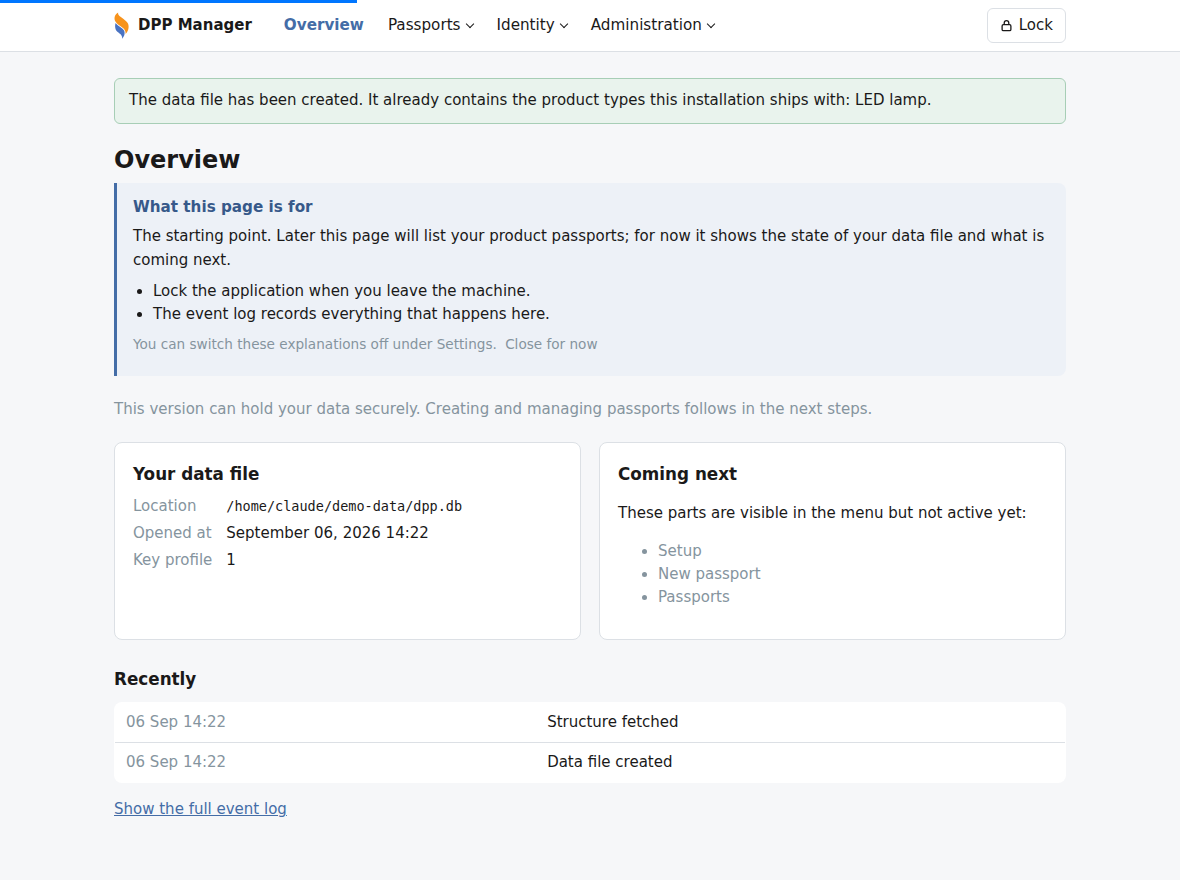
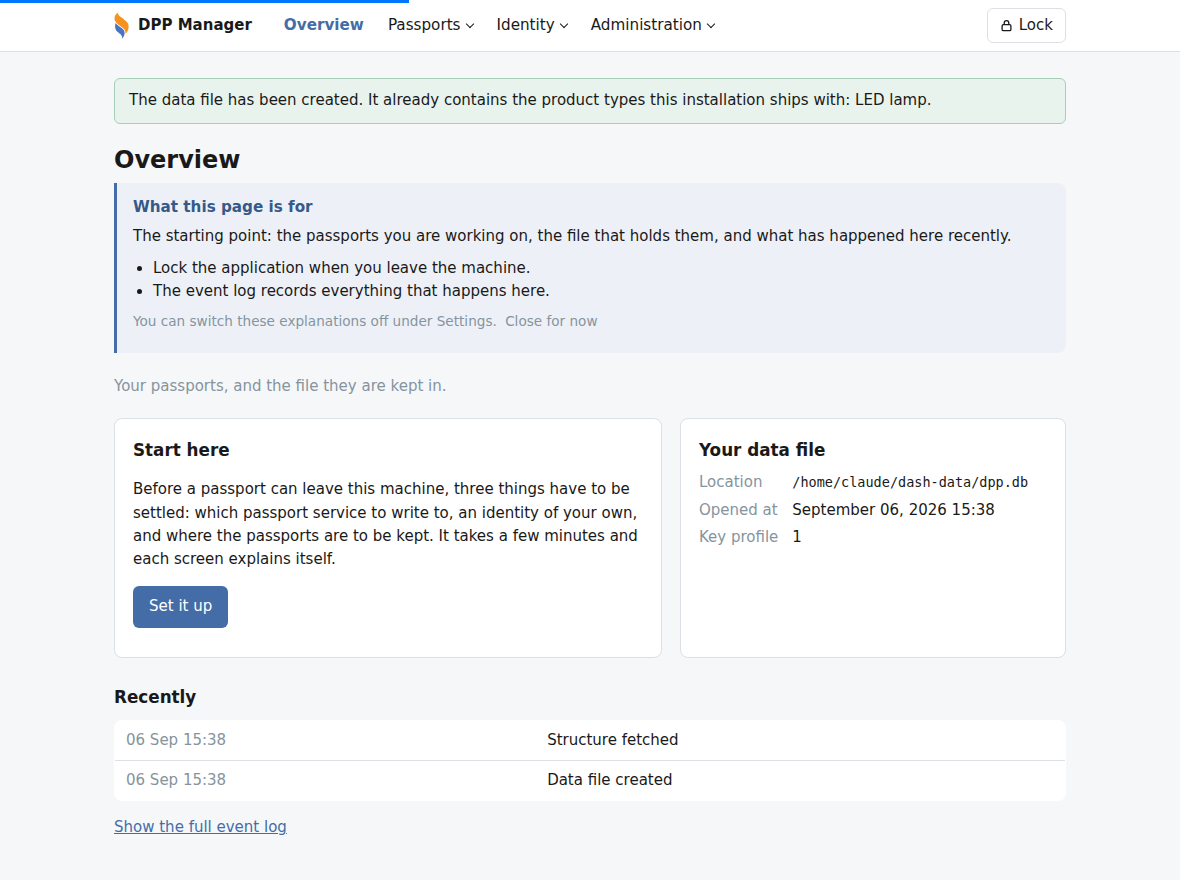
Release 2026-09-06

diff --git a/docs/DPP-Manager-Demo.md b/docs/DPP-Manager-Demo.md
@@ -105,6 +105,10 @@ are installed at that moment, which is why the button takes a second. From here
 on it works with the network unplugged, up to the point where something has to
 leave the computer.
 
+The overview is where the passports will be, on the left, with the file that
+holds them beside it. There are none yet and the setup has not been done, so it
+offers the one thing that has to happen first.
+
 ---
 
 ## 2 — Setup: the service, an identity, and two keys
